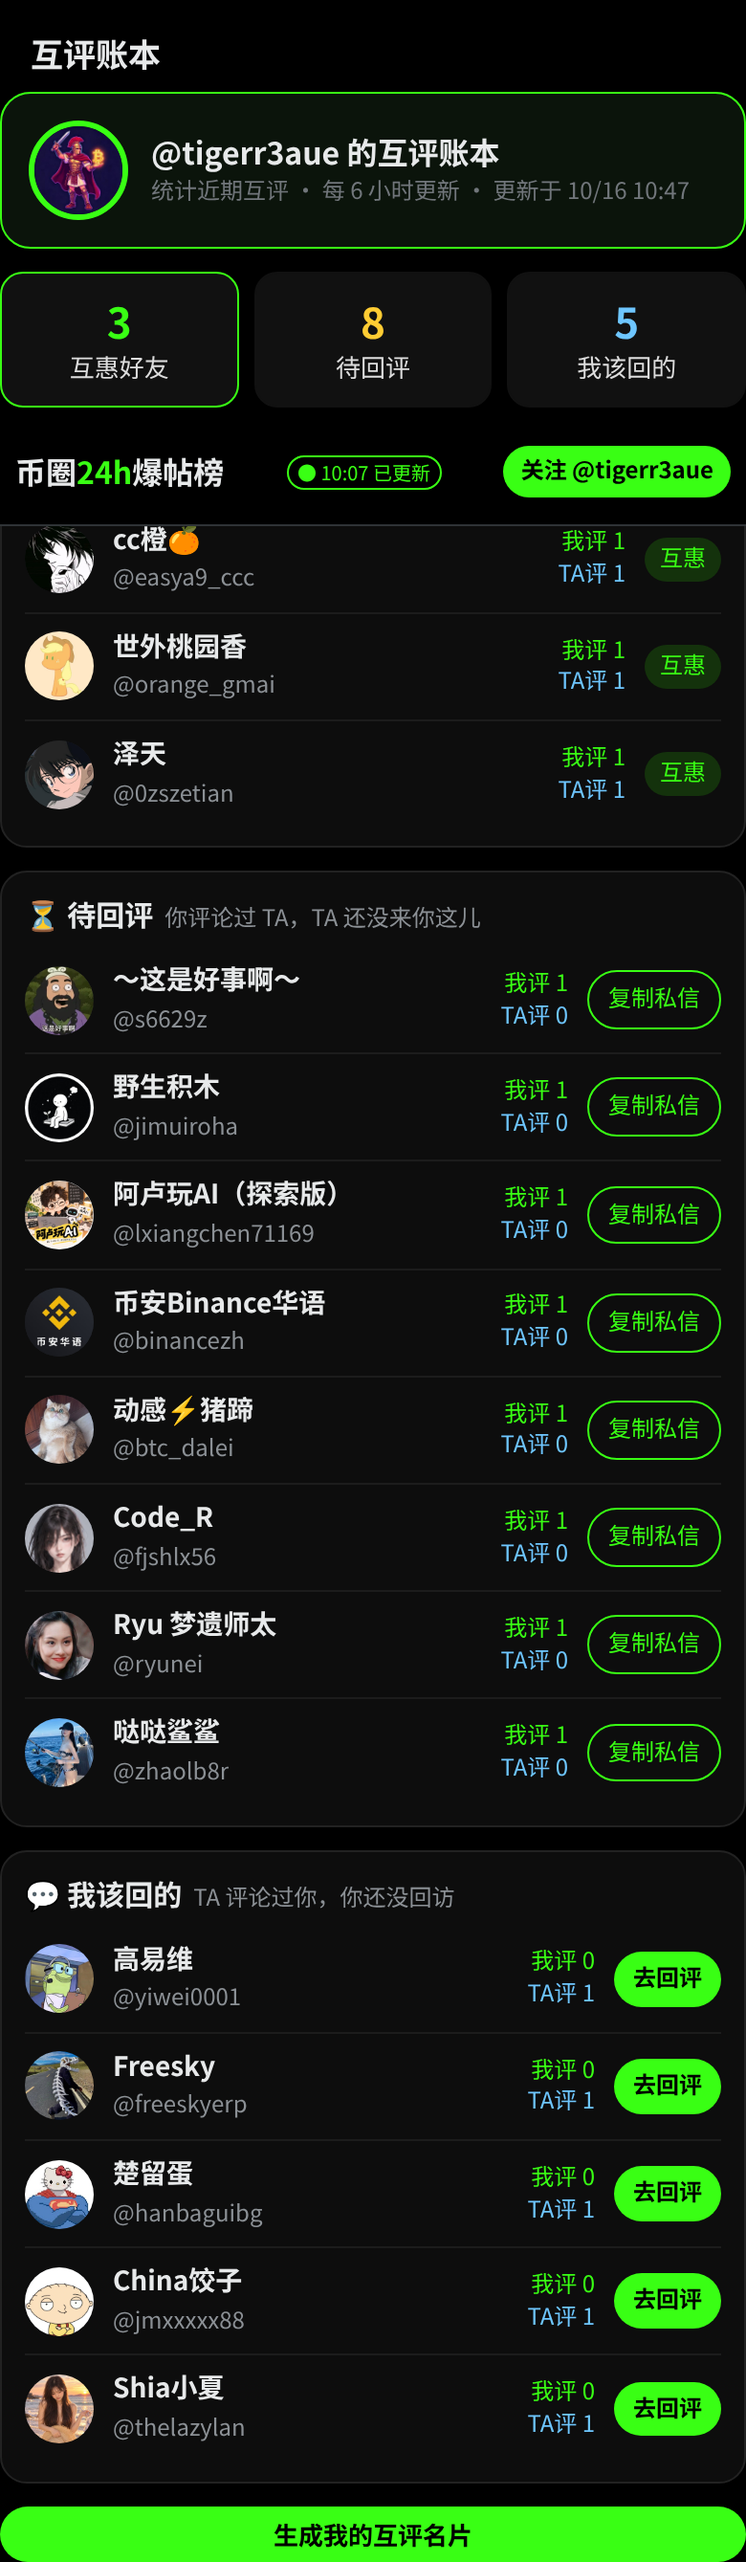
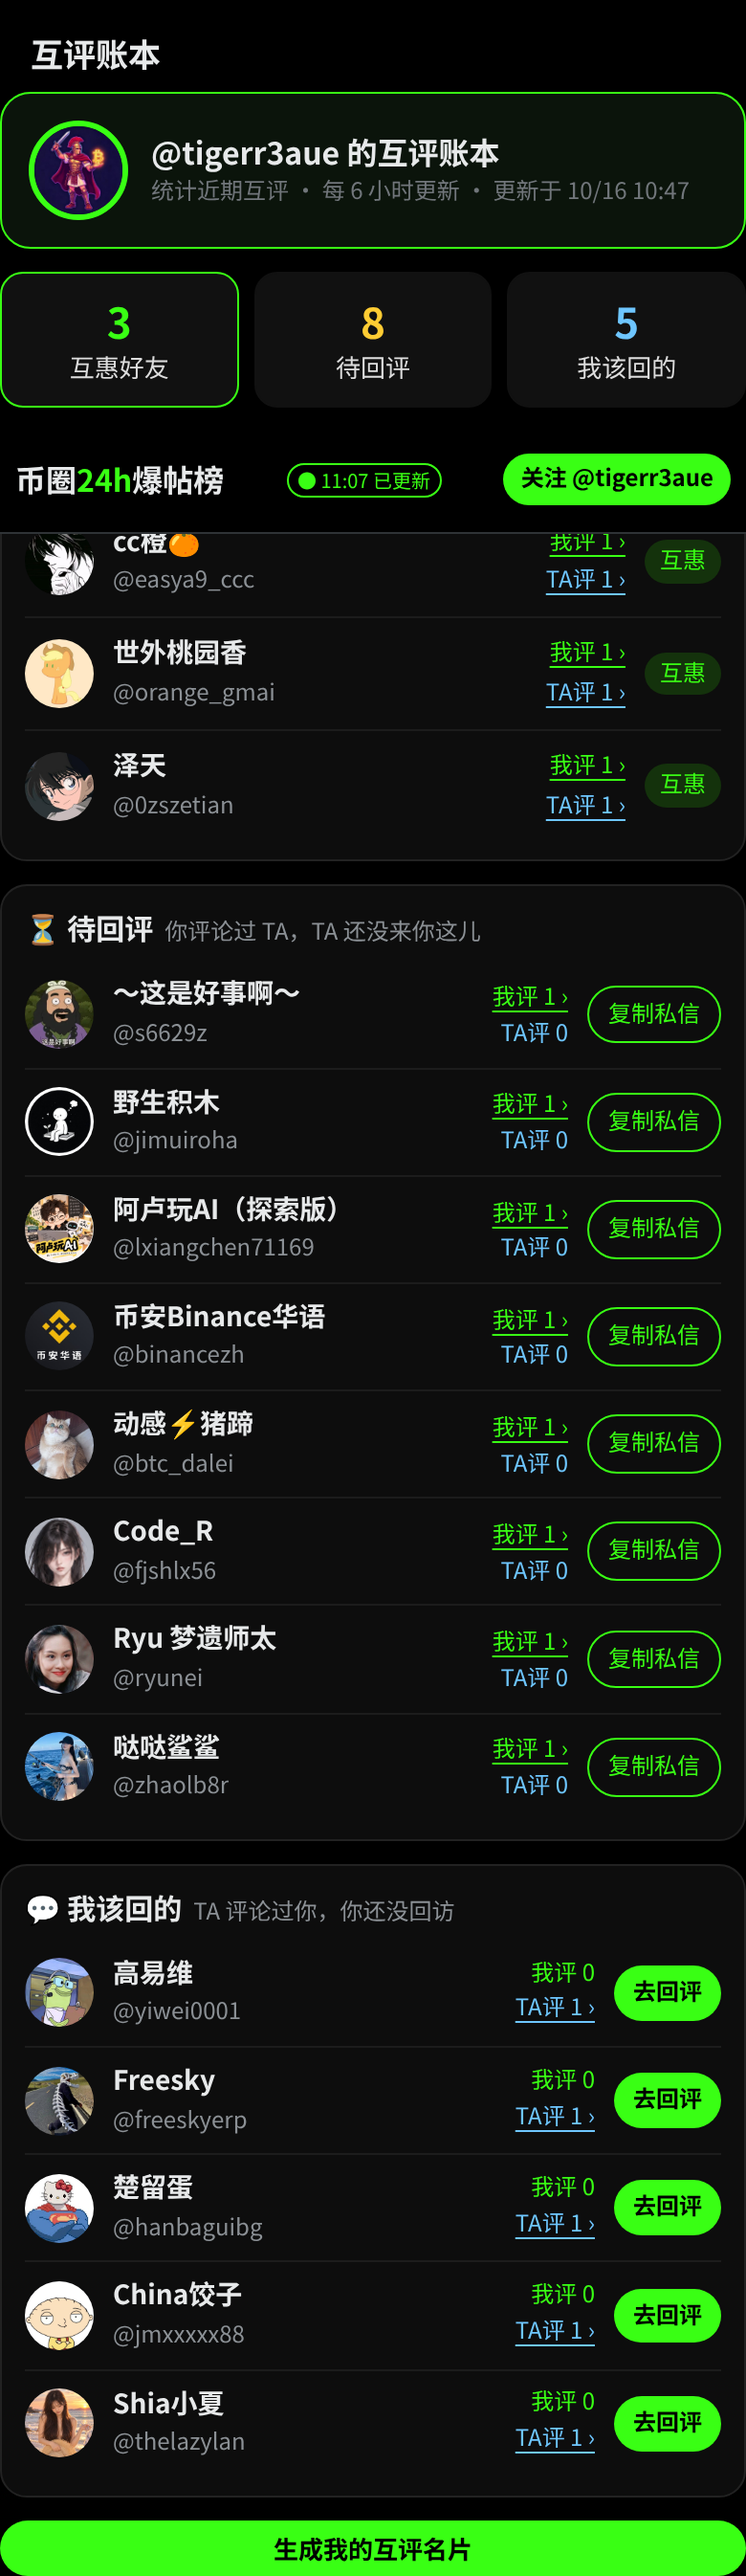
data: 2026-10-16 13:04 CST

diff --git a/app.js b/app.js
@@ -353,7 +353,10 @@ async function showLedger(raw, scroll) {
   const list = (L.users || {})[h];
   const t = L.updated_at ? new Date(L.updated_at).toLocaleString("zh-CN", { hour12: false, month: "numeric", day: "numeric", hour: "2-digit", minute: "2-digit" }) : "";
   const selfAv = hiAv(L.profiles?.[h]?.avatar) || selfAvatar(h);
-  const head = `<div class="lg-hd"><img src="${esc(selfAv)}" alt="" onerror="this.outerHTML='<b class=ini>${esc(h[0].toUpperCase())}</b>'"><div><b>@${esc(h)} 的互评账本</b><div class="m">统计近期互评 · 每 6 小时更新${t ? " · 更新于 " + t : ""}</div></div></div>`;
+  const since = L.since?.[h] || L.meta?.[h]?.since || (list || []).map(u => u.since).filter(Boolean).sort()[0];
+  const fmt = x => new Date(x).toLocaleString("zh-CN", { hour12: false, month: "numeric", day: "numeric", hour: "2-digit", minute: "2-digit" });
+  const rng = since && L.updated_at ? fmt(since) + " – " + fmt(L.updated_at) : "";
+  const head = `<div class="lg-hd"><img src="${esc(selfAv)}" alt="" onerror="this.outerHTML='<b class=ini>${esc(h[0].toUpperCase())}</b>'"><div><b>@${esc(h)} 的互评账本</b><div class="m">${rng ? "统计范围：" + rng : "统计近期互评"} · 每 6 小时更新${t ? " · 更新于 " + t : ""}</div></div></div>`;
   if (!list?.length) { out.innerHTML = `<h3>互评账本</h3>${head}<div class="lg-sec"><div class="lg-empty">暂未收录，联系 <a href="https://x.com/tigerr3aue" target="_blank" rel="noopener" style="color:#39ff14">@tigerr3aue</a> 加入</div></div>`; if (scroll) out.scrollIntoView({ behavior: "smooth" }); return; }
   const mu = list.filter(u => u.me_to > 0 && u.to_me > 0).sort((a, b) => (b.me_to + b.to_me) - (a.me_to + a.to_me));
   const wa = list.filter(u => u.me_to > 0 && !(u.to_me > 0)).sort((a, b) => b.me_to - a.me_to);

diff --git a/index.html b/index.html
@@ -7,7 +7,7 @@
 <meta name="description" content="每小时更新 X 上中文币圈 24 小时爆帖：曝光榜、评论榜、涨粉榜、照片墙。">
 <meta name="theme-color" content="#000000">
 <link rel="preload" href="data.json" as="fetch" crossorigin>
-<link rel="stylesheet" href="style.css?v=20261016111648">
+<link rel="stylesheet" href="style.css?v=20261016130413">
 </head>
 <body>
 <header>
@@ -59,7 +59,7 @@
 </footer>
 
 
-<script>window.ASSET_V="20261016111648"</script><script src="config.js?v=20261016111648"></script>
-<script src="app.js?v=20261016111648" defer></script>
+<script>window.ASSET_V="20261016130413"</script><script src="config.js?v=20261016130413"></script>
+<script src="app.js?v=20261016130413" defer></script>
 </body>
 </html>

diff --git a/scripts/ledger.py b/scripts/ledger.py
@@ -2,6 +2,7 @@
 """互评账本：把 x search_posts_all 原始结果合并成 ledger.json。
 用法：
   python3 scripts/ledger.py ingest HANDLE out|in FILE   # out = from:HANDLE is:reply ; in = to:HANDLE is:reply
+  python3 scripts/ledger.py next FILE [CUTOFF_ISO]       # 需要翻页时打印 pagination_token（最多翻到第 4 页）
   python3 scripts/ledger.py build                        # 生成 ledger.json（7 天窗口）
 推荐查询参数（每个号每轮 2 次调用）：
   query="from:H is:reply" / "to:H is:reply", max_results=25, sort_order=recency, start_time=now-7d,
@@ -82,10 +83,25 @@ def build():
             rows.append(r)
         rows.sort(key=lambda r: (r['me_to'] + r['to_me'], max(r.get('last_me', ''), r.get('last_to_me', ''))), reverse=True)
         out[me] = rows
-    led = {'updated_at': dt.datetime.now(dt.timezone.utc).strftime('%Y-%m-%dT%H:%M:%SZ'), 'window_days': WIN, 'users': out}
+    meta = {}
+    for me in out:
+        ts = [e['t'] for e in st['events'].values() if me in (e['a'], e['b'])]
+        meta[me] = {'events': len(ts)}
+        if ts: meta[me]['since'] = min(ts)[:19] + 'Z'
+    led = {'updated_at': dt.datetime.now(dt.timezone.utc).strftime('%Y-%m-%dT%H:%M:%SZ'), 'window_days': WIN, 'users': out, 'meta': meta}
     tmp = OUT + '.tmp'; json.dump(led, open(tmp, 'w'), ensure_ascii=False, separators=(',', ':')); os.replace(tmp, OUT)
     print(f'ledger.json: {len(out)} users, {sum(len(v) for v in out.values())} peer rows, {len(st["events"])} events')
 
+def next_page(path, cutoff=None):
+    """打印下一页 pagination_token；若本页最早一条已早于 cutoff（默认 now-6h）或没有下一页，则不输出。"""
+    d = parse_raw(path)
+    if not cutoff:
+        cutoff = (dt.datetime.now(dt.timezone.utc) - dt.timedelta(hours=6)).strftime('%Y-%m-%dT%H:%M:%S')
+    ts = [t['created_at'] for t in d.get('data', []) or []]
+    tok = (d.get('meta') or {}).get('next_token')
+    if tok and ts and min(ts)[:19] > cutoff[:19]: print(tok)
+
 if __name__ == '__main__':
     if sys.argv[1] == 'ingest': ingest(*sys.argv[2:5])
+    elif sys.argv[1] == 'next': next_page(sys.argv[2], sys.argv[3] if len(sys.argv) > 3 else None)
     else: build()
